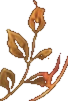
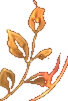
Book page: plaque-style ends — leaf sprigs either side of each heading (book-8)
Rounder frame ends like her plaque, bigger gold leaf sprigs at both ends
of each card's heading, heading centred between them.

Claude-Session: https://claude.ai/code/session_01DZ2PcyBswD9UMmCJw8nEKc

Changed region(s): [[0.0, 0.0, 1.0, 1.0], [0.8824, 0.505, 0.9118, 0.5347]]

diff --git a/book.html b/book.html
@@ -3,7 +3,7 @@
 <head>
 <meta charset="utf-8">
 <meta http-equiv="Cache-Control" content="no-cache">
-<meta name="app-version" content="book-7">
+<meta name="app-version" content="book-8">
 <meta name="viewport" content="width=device-width, initial-scale=1, viewport-fit=cover">
 <meta name="apple-mobile-web-app-capable" content="yes">
 <meta name="apple-mobile-web-app-status-bar-style" content="black-translucent">
@@ -36,15 +36,15 @@ h1{font-family:"IM Fell English SC",Georgia,serif;font-weight:400;font-size:32px
 .by{font-size:19px;color:#f3e3c3;margin:0}
 .series{margin:8px 0 0;font-size:15px;color:var(--gold);letter-spacing:.2px}
 
-.card{position:relative;margin:14px 0;padding:20px 20px 40px;border-radius:30px;color:#f3e3c3;
+.card{position:relative;margin:16px 0;padding:22px 22px 26px;border-radius:40px;color:#f3e3c3;
  background:linear-gradient(rgba(40,8,46,.25),rgba(20,4,26,.45)),url(img/panel.jpg) center/cover;
  box-shadow:0 10px 22px rgba(0,0,0,.55),inset 0 0 40px rgba(0,0,0,.45)}
 /* hand-painted gold rim and leaf sprigs, like the Home banner */
-.card::before{content:"";position:absolute;inset:0;pointer-events:none;border-style:solid;border-color:transparent;border-width:35px 45px;border-image:url(img/card_frame.png) 70 90 stretch}
+.card::before{content:"";position:absolute;inset:0;pointer-events:none;border-style:solid;border-color:transparent;border-width:48px 62px;border-image:url(img/card_frame.png) 70 90 stretch}
 .card::after{content:"";position:absolute;inset:0;pointer-events:none;
- background:url(img/leaf_m.png) no-repeat right 14px top 12px/26px auto,url(img/leaf.png) no-repeat left 14px bottom 10px/23px auto}
+ background:url(img/leaf.png) no-repeat left 16px top 10px/36px auto,url(img/leaf_m.png) no-repeat right 16px top 10px/36px auto}
 .card>*{position:relative;z-index:1}
-.card h2{margin:0 0 10px;font-family:"IM Fell English SC",Georgia,serif;font-weight:400;font-size:22px;color:#f1cf7c}
+.card h2{margin:6px 40px 14px;text-align:center;min-height:44px;display:flex;align-items:center;justify-content:center;font-family:"IM Fell English SC",Georgia,serif;font-weight:400;font-size:22px;color:#f1cf7c}
 
 .status{display:grid;grid-template-columns:1fr 1fr;gap:6px;padding:5px;border-radius:999px;background:#14041c;box-shadow:inset 0 2px 5px rgba(0,0,0,.5)}
 .status button{min-height:44px;border:0;border-radius:999px;background:transparent;color:#e7cfa6;font:600 17px "EB Garamond",Georgia,serif;cursor:pointer}
